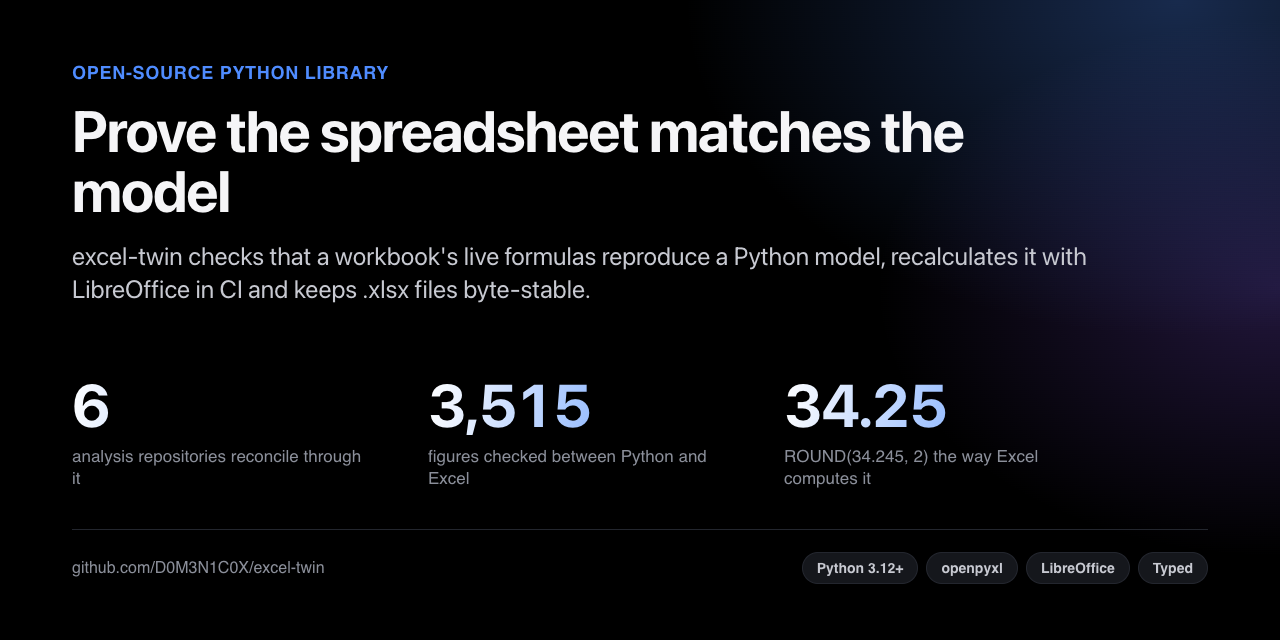
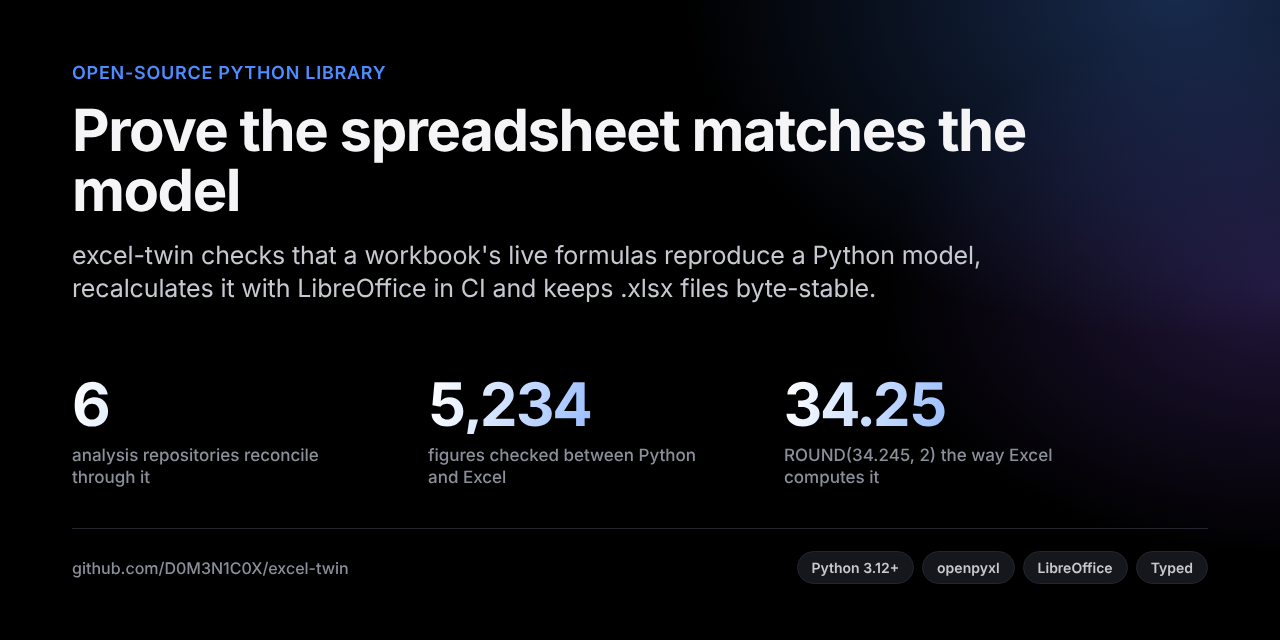
Portfolio total: 5,234 figures checked through excel-twin
The six analysis repositories now reconcile 5,234 figures between Python
and Excel (was 3,515); README and cover updated.

Claude-Session: https://claude.ai/code/session_014XHqeApKr46St4VSU6sEYL

diff --git a/README.md b/README.md
@@ -1,6 +1,6 @@
 <picture>
   <source media="(prefers-color-scheme: dark)" srcset="https://raw.githubusercontent.com/D0M3N1C0X/excel-twin/main/site-assets/cover-dark.png">
-  <img alt="excel-twin: prove the spreadsheet matches the model. Six analysis repositories reconcile through it, 3,515 figures checked between Python and Excel." src="https://raw.githubusercontent.com/D0M3N1C0X/excel-twin/main/site-assets/cover-light.png">
+  <img alt="excel-twin: prove the spreadsheet matches the model. Six analysis repositories reconcile through it, 5,234 figures checked between Python and Excel." src="https://raw.githubusercontent.com/D0M3N1C0X/excel-twin/main/site-assets/cover-light.png">
 </picture>
 
 <p align="center">
@@ -23,7 +23,7 @@ Finance and HR teams receive models as Excel workbooks, because that is the file
 When the analysis behind it was built in pandas, the two engines can drift apart: a formula typed once and never
 checked, a rounding rule that differs, a range that stops one row short. Nobody notices until a number in a board
 pack is wrong. **excel-twin makes the workbook prove it agrees with the model**, figure by figure, on every change.
-It is the small toolkit behind the reconciliation in six of my analysis repositories (3,515 figures checked in all),
+It is the small toolkit behind the reconciliation in six of my analysis repositories (5,234 figures checked in all),
 extracted so each one tests the same way.
 
 ## The idea
